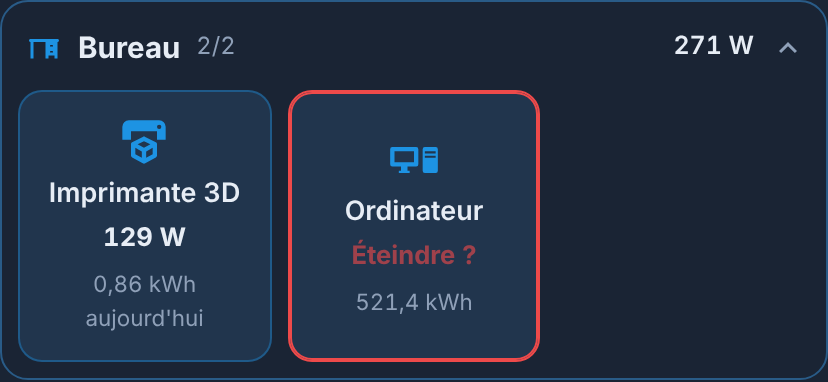
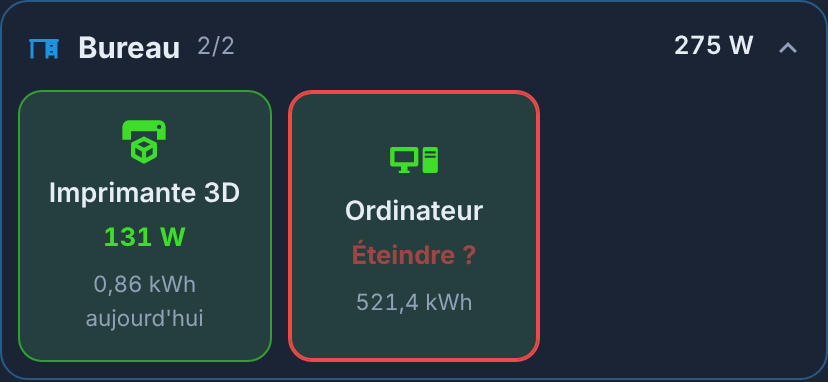
feat(couleurs): couleur selon la puissance, du vert au rouge à max_power, 2500 W par défaut et réglable par prise (0.1.0-beta.5)
Claude-Session: https://claude.ai/code/session_01CSixJnFf4qBMac7uTfNvnW

diff --git a/prises-card.js b/prises-card.js
@@ -6,7 +6,7 @@
  * pour les prises qui les mesurent. Sans configuration, la carte trouve seule les prises et leurs capteurs.
  */
 (() => {
-const CARD_VERSION = "0.1.0-beta.4";
+const CARD_VERSION = "0.1.0-beta.5";
 
 const DEFAULTS = {
   title: "",
@@ -20,7 +20,7 @@ const DEFAULTS = {
   confirm: true,
   sort: "name",
   layout: "list",
-  max_power: 3680,
+  max_power: 2500,
   theme: "v2",
   language: "auto",
 };
@@ -55,15 +55,15 @@ const EDITOR_LABELS = {
   fr: { title: "Titre (Prises par défaut)", icon: "Icône", entities: "Prises (trouvées seules si vide)", areas: "Pièces affichées (toutes si vide)",
     exclude: "Prises à masquer", locked: "Prises verrouillées (pas de bouton)", show_off: "Afficher les prises éteintes",
     show_details: "Afficher tension et courant", confirm: "Valider d'un second appui", sort: "Ordre dans chaque pièce", layout: "Affichage",
-    max_power: "Puissance de la barre pleine (W)", theme: "Couleurs de la carte", language: "Langue" },
+    max_power: "Puissance du rouge (W) : vert à 0, rouge à cette valeur", theme: "Couleurs de la carte", language: "Langue" },
   en: { title: "Title (Plugs by default)", icon: "Icon", entities: "Plugs (found automatically if empty)", areas: "Rooms shown (all if empty)",
     exclude: "Plugs to hide", locked: "Locked plugs (no button)", show_off: "Show plugs that are off",
     show_details: "Show voltage and current", confirm: "Confirm with a second tap", sort: "Order in each room", layout: "Layout",
-    max_power: "Power of a full bar (W)", theme: "Card colours", language: "Language" },
+    max_power: "Red at this power (W): green at 0", theme: "Card colours", language: "Language" },
   pl: { title: "Tytuł (domyślnie Gniazdka)", icon: "Ikona", entities: "Gniazdka (wykrywane, jeśli puste)", areas: "Pokazane pomieszczenia (wszystkie, jeśli puste)",
     exclude: "Ukryte gniazdka", locked: "Zablokowane gniazdka (bez przycisku)", show_off: "Pokaż wyłączone gniazdka",
     show_details: "Pokaż napięcie i prąd", confirm: "Potwierdź drugim dotknięciem", sort: "Kolejność w pomieszczeniu", layout: "Układ",
-    max_power: "Moc pełnego paska (W)", theme: "Kolory karty", language: "Język" },
+    max_power: "Moc koloru czerwonego (W): zielony przy 0", theme: "Kolory karty", language: "Język" },
 };
 
 const PLUG_NAME = /prise|plug|socket|outlet|steckdose|gniazd/i;
@@ -99,6 +99,9 @@ const store = {
   set(k, v) { try { window.localStorage.setItem(k, JSON.stringify(v)); } catch (e) { /* stockage indisponible */ } },
 };
 const num = (v) => { const n = Number.parseFloat(v); return Number.isFinite(n) ? n : null; };
+
+/** Teinte selon la puissance : 120 (vert) à 0 W, 60 (jaune) à mi-chemin, 0 (rouge) à max W et au-delà. */
+const heatHue = (w, max) => Math.round(120 * (1 - Math.min(1, Math.max(0, w) / max)));
 
 class PrisesCard extends HTMLElement {
   constructor() {
@@ -304,7 +307,7 @@ class PrisesCard extends HTMLElement {
       const dev = hass.entities?.[id]?.device_id;
       const s = (dev && sensors.get(dev)) || {};
       return { id, power: extra.power || s.power, energy: extra.energy || s.today || s.energy, today: !extra.energy && !!s.today,
-        voltage: extra.voltage || s.voltage, current: extra.current || s.current, name: extra.name, icon: extra.icon,
+        voltage: extra.voltage || s.voltage, current: extra.current || s.current, name: extra.name, icon: extra.icon, max: num(extra.max_power),
         locked: extra.locked ?? locked.has(id) };
     };
     if (c.entities.length) {
@@ -442,15 +445,15 @@ class PrisesCard extends HTMLElement {
     const on = s.state === "on", off = s.state === "off";
     const w = this._watts(p), kwh = this._kwh(p);
     const armed = this._armed === p.id;
-    const max = Math.max(100, Number(c.max_power) || 3680);
-    const level = w === null ? "" : w >= max * 0.55 ? "bad" : w >= max * 0.15 ? "warn" : "ok";
+    const max = Math.max(50, p.max || Number(c.max_power) || 2500);
+    const heat = on && w !== null ? ` style="--h:${heatHue(w, max)}"` : "";
     const usable = !p.locked && (on || off);
     const main = armed ? (on ? T.confirm_off : T.confirm_on) : on ? (w !== null ? this._w(w) : T.on) : off ? T.off : T.unavailable;
     const sub = kwh !== null ? `${this._n(kwh, kwh < 10 ? 2 : 1)} kWh${p.today ? ` ${T.today}` : ""}` : "";
     const hold = p.locked ? p.power : p.id;
     const icon = p.icon || s.attributes?.icon || "mdi:power-socket-fr";
     const attrs = usable ? ` data-act="toggle" data-id="${esc(p.id)}" role="switch" aria-checked="${on}" tabindex="0" title="${esc(T.toggle)}"` : p.locked ? ` title="${esc(T.locked)}"` : "";
-    return `<div class="pc-bt pc-plug${on ? " on" : ""}${on || off ? "" : " na"}${usable ? " tap" : ""}${armed ? " armed" : ""}${p.locked ? " locked" : ""} ${level}"${attrs}${hold ? ` data-hold="${esc(hold)}"` : ""}>
+    return `<div class="pc-bt pc-plug${on ? " on" : ""}${on || off ? "" : " na"}${usable ? " tap" : ""}${armed ? " armed" : ""}${p.locked ? " locked" : ""}${heat ? " heat" : ""}"${heat}${attrs}${hold ? ` data-hold="${esc(hold)}"` : ""}>
       ${p.locked ? `<ha-icon class="pc-bt-lock" icon="mdi:lock"></ha-icon>` : ""}
       <ha-icon icon="${esc(icon)}"></ha-icon>
       <b>${esc(this._name(p))}</b>
@@ -468,9 +471,9 @@ class PrisesCard extends HTMLElement {
     let amp = num(aSt?.state);
     if (amp !== null && aSt.attributes?.unit_of_measurement === "mA") amp /= 1000;
     const armed = this._armed === p.id;
-    const max = Math.max(100, Number(c.max_power) || 3680);
-    const level = w === null ? "" : w >= max * 0.55 ? "bad" : w >= max * 0.15 ? "warn" : "ok";
-    const bar = on && w !== null ? Math.min(100, Math.sqrt(Math.max(0, w) / max) * 100) : 0;
+    const max = Math.max(50, p.max || Number(c.max_power) || 2500);
+    const heat = on && w !== null ? ` style="--h:${heatHue(w, max)}"` : "";
+    const bar = on && w !== null ? Math.min(100, Math.max(w > 0 ? 3 : 0, (w / max) * 100)) : 0;
 
     const main = on ? (w !== null ? this._w(w) : T.on) : off ? T.off : T.unavailable;
     const parts = [];
@@ -488,7 +491,7 @@ class PrisesCard extends HTMLElement {
         : `<span class="pc-sw${on ? " on" : ""}" aria-hidden="true"><i></i></span>`;
     const tile = usable ? ` data-act="toggle" data-id="${esc(p.id)}" data-hold="${esc(p.id)}" role="switch" aria-checked="${on}" tabindex="0" title="${esc(T.toggle)}"` : "";
 
-    return `<div class="pc-plug${on ? " on" : ""}${on || off ? "" : " na"}${usable ? " tap" : ""}${armed ? " armed" : ""}${p.locked ? " locked" : ""} ${level}"${tile}>
+    return `<div class="pc-plug${on ? " on" : ""}${on || off ? "" : " na"}${usable ? " tap" : ""}${armed ? " armed" : ""}${p.locked ? " locked" : ""}${heat ? " heat" : ""}"${heat}${tile}>
       <div class="pc-row">
         <span class="pc-ico"><ha-icon icon="${esc(icon)}"></ha-icon></span>
         <div class="pc-name">
@@ -542,8 +545,10 @@ button:focus-visible, [role=button]:focus-visible { outline: 2px solid var(--med
 .pc-count + .pc-chev { margin-left: auto; }
 .pc-list { display: grid; grid-template-columns: 1fr; gap: 6px; margin-top: 6px; align-items: start; }
 @container (min-width: 560px) { .pc-list { grid-template-columns: 1fr 1fr; } }
-.pc-plug { background: var(--med-surface); border-radius: 12px; padding: 8px 10px; border: 1px solid transparent; min-width: 0; --lvl: var(--pc-ok); }
-.pc-plug.warn { --lvl: var(--pc-warn); } .pc-plug.bad { --lvl: var(--pc-bad); }
+.pc-plug { background: var(--med-surface); border-radius: 12px; padding: 8px 10px; border: 1px solid transparent; min-width: 0;
+  /* --heat : du vert (0 W) au rouge (max_power), en continu */
+  --heat: hsl(var(--h, 120) 72% 52%); }
+ha-card.light .pc-plug, ha-card.th-ha.light .pc-plug { --heat: hsl(var(--h, 120) 70% 36%); }
 .pc-plug.on { border-color: color-mix(in srgb, var(--med-accent) 40%, transparent); background: color-mix(in srgb, var(--med-accent) 8%, var(--med-surface)); }
 .pc-plug.na { opacity: .55; }
 .pc-row { display: flex; align-items: center; gap: 10px; min-width: 0; }
@@ -574,16 +579,19 @@ button:focus-visible, [role=button]:focus-visible { outline: 2px solid var(--med
 .pc-lock { width: 42px; display: grid; place-items: center; flex: none; }
 .pc-lock ha-icon { --mdc-icon-size: 18px; color: var(--med-muted); }
 .pc-bar { height: 6px; border-radius: 4px; background: color-mix(in srgb, var(--med-text) 12%, transparent); overflow: hidden; margin: 8px 0 2px 48px; }
-.pc-bar i { display: block; height: 100%; border-radius: 4px; background: var(--lvl); }
+.pc-plug.heat .pc-w { color: var(--heat); }
+.pc-bar i { display: block; height: 100%; border-radius: 4px; background: var(--heat); }
 .pc-grid { display: grid; grid-template-columns: repeat(auto-fill, minmax(118px, 1fr)); gap: 8px; margin-top: 6px; }
 .pc-bt { position: relative; display: flex; flex-direction: column; align-items: center; justify-content: center; gap: 5px; text-align: center;
   min-height: 100px; padding: 12px 8px; border: 1px solid var(--med-line); }
 .pc-bt > ha-icon { --mdc-icon-size: 26px; color: var(--med-muted); }
 .pc-bt.on > ha-icon { color: var(--med-accent); }
+.pc-bt.heat { border-color: color-mix(in srgb, var(--heat) 60%, transparent); background: color-mix(in srgb, var(--heat) 10%, var(--med-surface)); }
+.pc-bt.heat > ha-icon { color: var(--heat); }
 .pc-bt b { font-size: .84rem; font-weight: 600; line-height: 1.2; overflow: hidden; display: -webkit-box; -webkit-line-clamp: 2; -webkit-box-orient: vertical; }
 .pc-bt-v { font-size: .8rem; font-weight: 700; color: var(--med-muted); }
 .pc-bt.on .pc-bt-v { color: var(--med-text); }
-.pc-bt.on.warn .pc-bt-v { color: var(--pc-warn); } .pc-bt.on.bad .pc-bt-v { color: var(--pc-bad); }
+.pc-bt.heat .pc-bt-v { color: var(--heat); }
 .pc-bt.armed .pc-bt-v { color: var(--arm); animation: pc-pulse-t 1s ease-in-out infinite; }
 @keyframes pc-pulse-t { 50% { opacity: .55; } }
 .pc-bt small { font-size: .7rem; color: var(--med-muted); }

diff --git a/README.md b/README.md
@@ -35,7 +35,7 @@
 
 - **Prises classiques et prises qui mesurent** : une prise simple affiche Allumée / Éteinte ; une prise avec mesures affiche aussi sa **puissance** (W), son **énergie** consommée (kWh, celle du jour si elle existe), sa **tension** (V) et son **courant** (A).
 - **Puissance totale** en haut de la carte, et par pièce.
-- **Barre de charge** sous chaque prise allumée : verte, orange puis rouge selon la puissance.
+- **Couleur selon la consommation** : la barre de charge (en liste) et la tuile (en boutons) passent du **vert** au **jaune** puis au **rouge** selon la puissance, jusqu'à 2 500 W par défaut. Le seuil se règle pour toute la carte (`max_power`) ou prise par prise.
 - **Un appui sur la prise, un second pour valider** : le premier affiche « Allumer ? » ou « Éteindre ? », le second exécute, comme les boutons du NAS des [Cartes Serveur HA](https://github.com/Marlboro62/serveur-ha-card). Pas de congélateur coupé par erreur.
 - **Prises verrouillées** (box internet, congélateur…) : affichées avec leurs mesures, sans aucun moyen de les allumer ou de les éteindre depuis la carte.
 - **Historique** : un clic sur la puissance ouvre la fiche du capteur, avec son graphique.
@@ -110,7 +110,7 @@ Si un interrupteur est pris pour une prise à tort, masquez-le avec `exclude`. S
 | `confirm` | Valider d'un second appui (allumer et éteindre) ; `false` : un seul appui | `true` |
 | `layout` | `list` (liste détaillée) ou `buttons` (une tuile par prise) | `list` |
 | `sort` | Ordre dans chaque pièce : `name` (nom) ou `power` (la plus forte en premier) | `name` |
-| `max_power` | Puissance d'une barre pleine, en W (la barre devient orange vers 15 %, rouge vers 55 %) | `3680` |
+| `max_power` | Puissance du rouge, en W : vert à 0 W, jaune à mi-chemin, rouge à cette valeur (barre pleine). Une prise qui encaisse plus (radiateur, four) peut avoir la sienne | `2500` |
 | `theme` | `v2` (bleu nuit), `auto` (clair si Home Assistant est en mode clair) ou `ha` (thème de Home Assistant) | `v2` |
 | `language` | `auto`, `fr`, `en` ou `pl` | `auto` |
 
@@ -129,10 +129,11 @@ entities:
     locked: true
   - entity: switch.lave_vaisselle
     power: sensor.lave_vaisselle_power
+    max_power: 3000
 sort: power
 ```
 
-Clés d'une prise : `entity`, `name`, `icon`, `power`, `energy`, `voltage`, `current`, `locked`.
+Clés d'une prise : `entity`, `name`, `icon`, `power`, `energy`, `voltage`, `current`, `locked`, `max_power` (seuil du rouge pour cette prise seulement, par exemple `3500` pour un four).
 
 ### Bon à savoir
 
